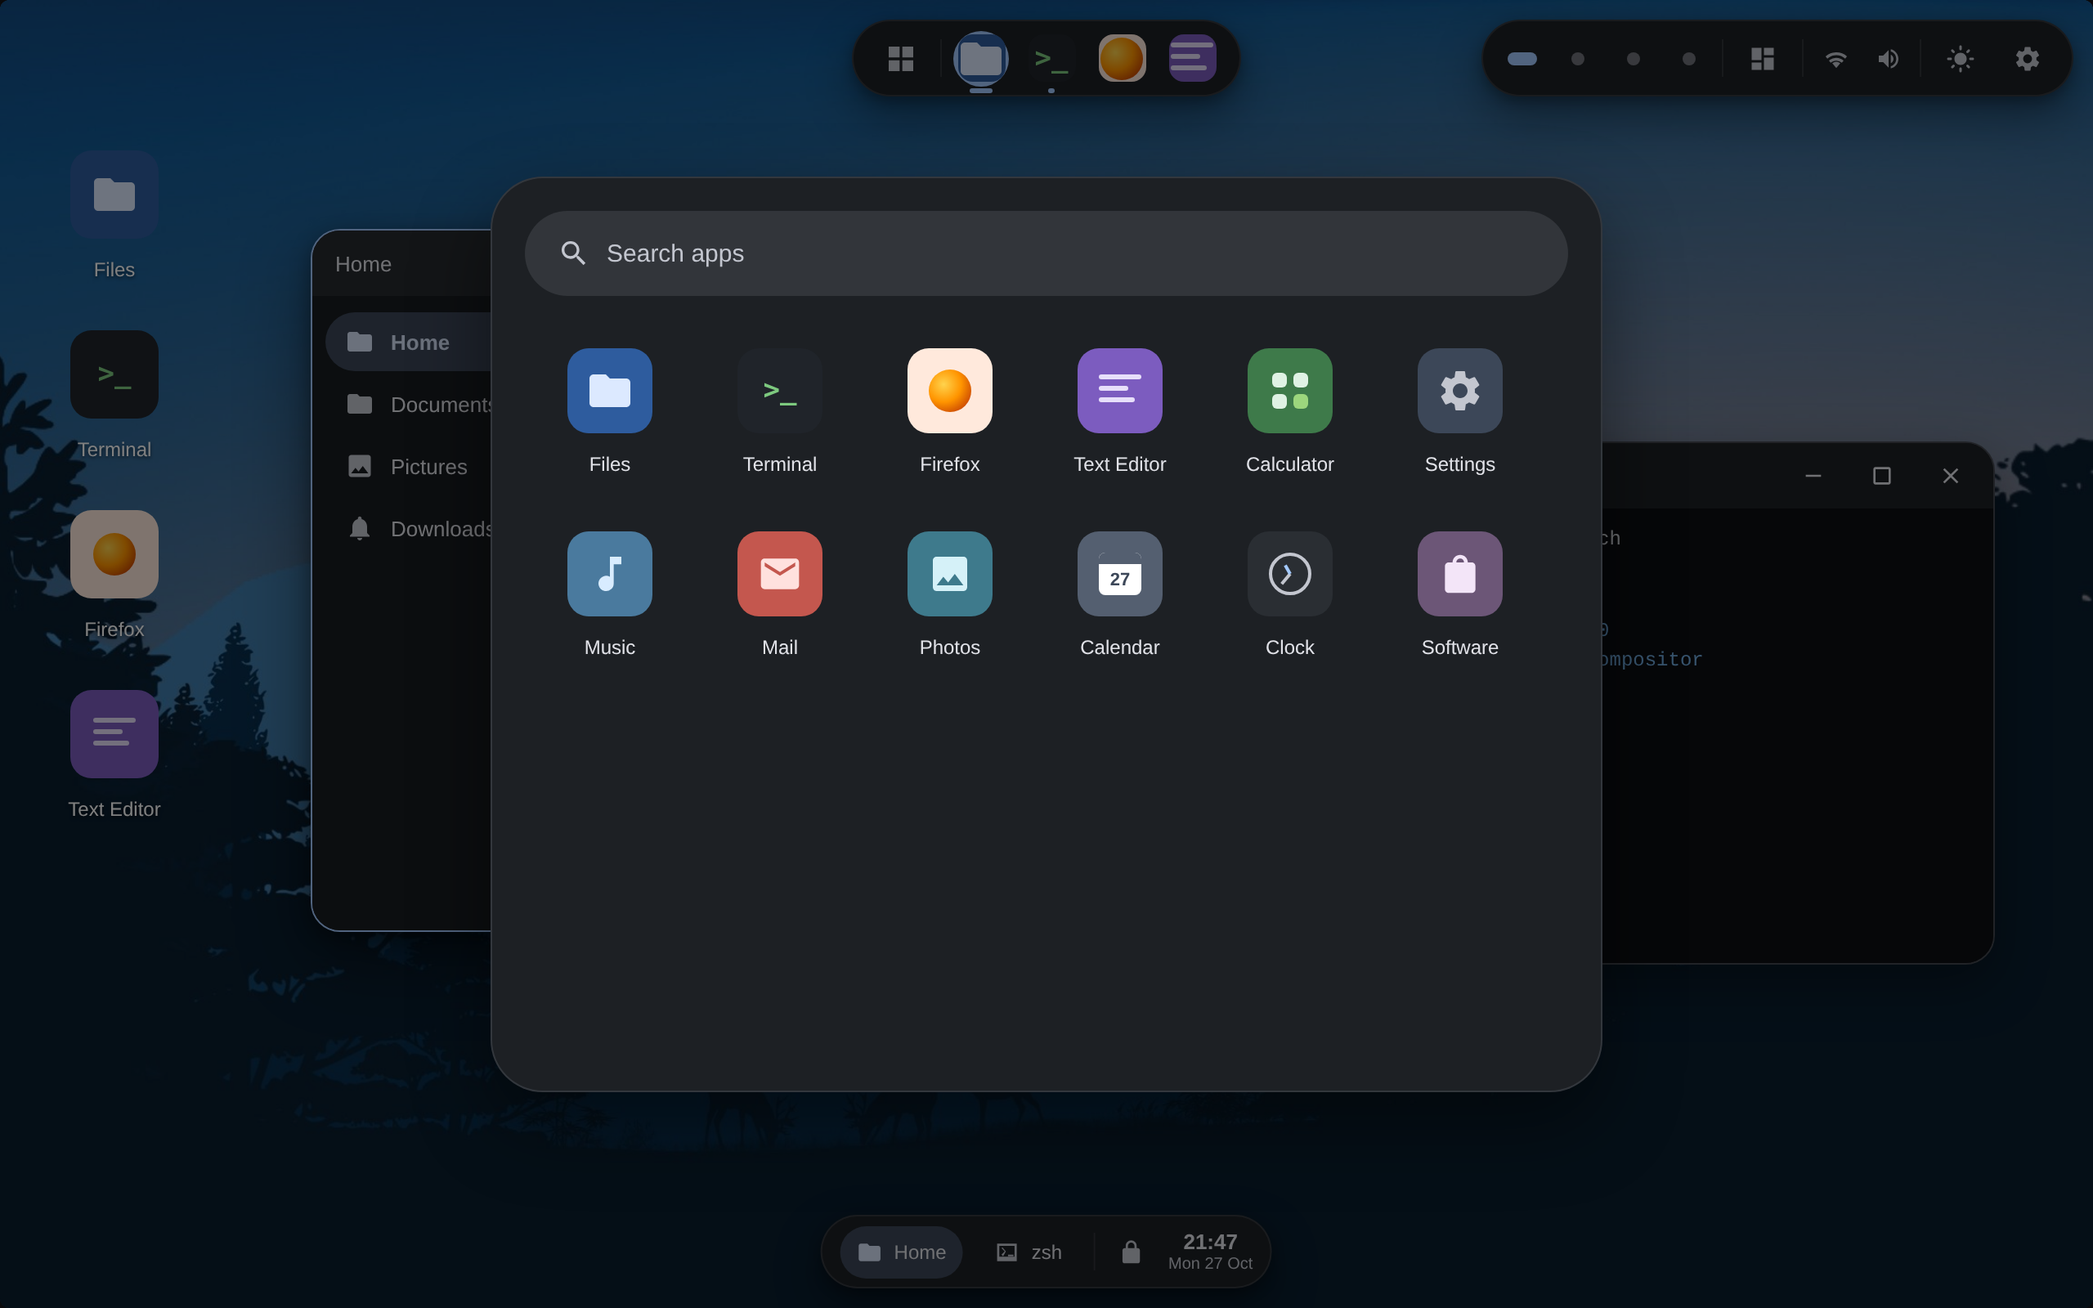
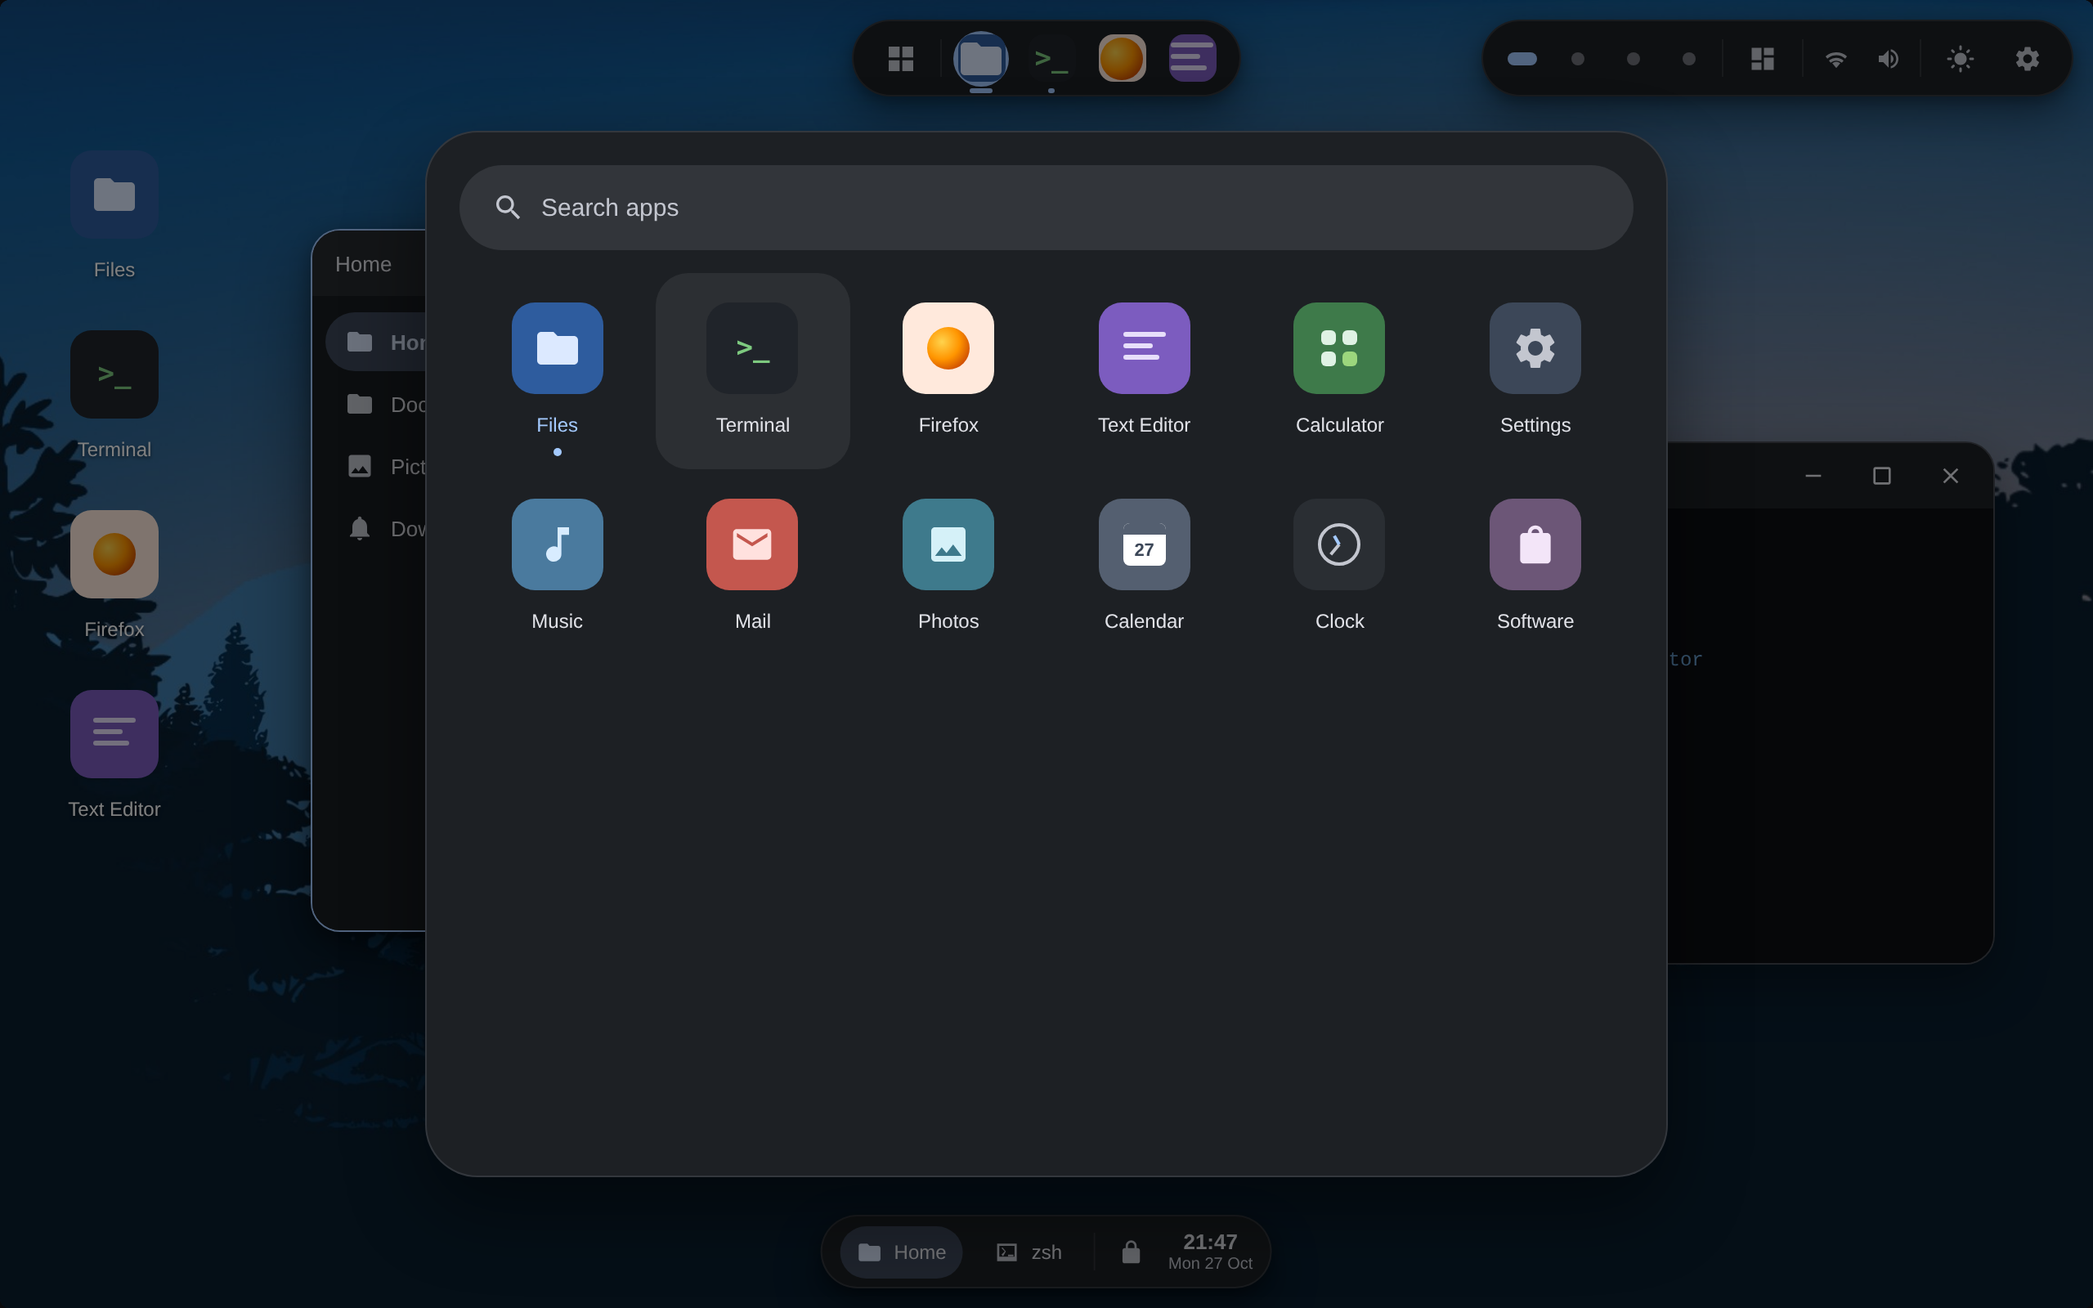
docs

diff --git a/src/main.cpp b/src/main.cpp
@@ -13,7 +13,7 @@ int main(int argc, char *argv[])
     QGuiApplication app(argc, argv);
     QGuiApplication::setApplicationName(QStringLiteral("Loali"));
     QGuiApplication::setOrganizationName(QStringLiteral("Loali"));
-    QGuiApplication::setApplicationVersion(QStringLiteral("0.4.0"));
+    QGuiApplication::setApplicationVersion(QStringLiteral("0.5.0"));
     QQuickStyle::setStyle(QStringLiteral("Basic"));
 
     QCommandLineParser parser;

diff --git a/README.md b/README.md
@@ -41,7 +41,7 @@
 - **Bottom taskbar** — two styles: a **streamlined floating pill** that stays out of the corners and widens only when tasks overflow, or a classic full-width bar; window buttons, a lock shortcut and a live clock.
 - **Panel size control** — a single slider in Settings → Panels scales the dock, taskbar and status pill together (70–130 %), and maximized windows keep their work area in sync automatically.
 - **Desktop icons** — a grid of installed applications directly on the wallpaper, with selection and double-click launch.
-- **App launcher** — a searchable full-screen grid of installed applications.
+- **App launcher** — a searchable tile grid that adapts to the window width, marks running apps with a tinted label and an indicator dot, and re-focuses a running app instead of launching a second copy.
 - **Virtual workspaces** — 2–6 independent desktops with an animated switcher in the status pill, `Super+1…6` to switch and `Super+Shift+1…6` to send windows across.
 - **Window tiling** — snap windows to halves and quarters with `Super`-arrows or by dragging them to screen edges, with a live M3 snap preview and animated transitions; drag a tiled window to restore it.
 - **System tray** — a full StatusNotifierWatcher implementation over D-Bus: tray items register, expose icons (theme names or ARGB pixmaps) and react to activate / secondary-activate clicks; icons can be **reordered by dragging** and the layout persists across sessions.
@@ -49,8 +49,9 @@
 - **Workspace overview (expo)** — `Super+W` zooms out into an expo of every workspace with **live window previews**: windows keep rendering inside scaled workspace cells, click a cell to jump there, drag a window between cells to move it across workspaces, or just click a window to open its desktop.
 - **Dark / light theme** — a one-tap toggle (status pill or Settings → Appearance) switches the entire M3 token set between the dark and light Material schemes, Obsidian-style; the dynamic Material You palette is regenerated for the chosen mode and persisted.
 - **Notifications daemon** — a real `org.freedesktop.Notifications` server on the session bus: summary, body, app icons and image hints render as M3 cards stacked in the corner, actions are forwarded back to the sender, critical alerts stay on screen, and Do Not Disturb lives in Settings.
-- **Dynamic Material You color** — the seed color is extracted from the wallpaper (Wu quantizer + scoring) and a full Material 3 tonal scheme is generated with Google’s `material-color-utilities` (HCT / CAM16); dock, taskbar, windows, launcher and settings all recolor live, with manual accent and wallpaper-suggested swatches as fallback.
-- **Settings application** — a built-in M3 settings app with wallpaper (bundled art, custom image path, dim overlay), accent color, panels (taskbar style, dock look, panel size), workspace count, a shortcut cheat-sheet and an about page; everything persists via QSettings.
+- **Dynamic Material You color** — the seed color is extracted from the wallpaper (Wu quantizer + scoring) and a full Material 3 tonal scheme is generated with Google’s `material-color-utilities` (HCT / CAM16); dock, taskbar, windows, launcher and settings all recolor live.
+- **Material You fine-tuning** — seven wallpaper styles straight from Android 12+ (**Tonal spot, Vibrant, Expressive, Content, Fruit salad, Rainbow, Monochrome**), a contrast level from muted (−1) to high (+1), and a manual accent that re-tints the entire scheme — not just a highlight color.
+- **Settings application** — a built-in M3 settings app with wallpaper (bundled art, custom image path, dim overlay), appearance (dark/light, dynamic color, wallpaper style, contrast, accent), panels (taskbar style, dock look, panel size), workspace count, a shortcut cheat-sheet and an about page; everything persists via QSettings.
 - **Wallpapers** — a bundled default artwork plus procedural M3E gradient styles, applied to the desktop and the lock screen.
 - **Window management** — server-side title bars, drag, 8-way resize, maximize, fullscreen, minimize, click-to-focus.
 - **Lock screen** — large M3 display-style clock over a dimmed wallpaper.
@@ -176,6 +177,8 @@ The shell follows the reference Qt compositor pattern: `XdgShell.onToplevelCreat
 - [x] Dark / light theme toggle
 - [x] Workspace expo with window previews
 - [x] Floating taskbar and Dynamic Island dock, panel size settings
+- [x] Material You fine-tuning: wallpaper styles and contrast
+- [x] Launcher tile grid with running indicators
 
 ## Contributing
 
@@ -197,7 +200,7 @@ Loali is licensed under the [GNU GPL-3.0](LICENSE). Material Symbols path data u
   <a href="docs/screenshots/settings.png"><img src="docs/screenshots/settings.png" alt="Настройки — панели" width="49%"/></a>
 </div>
 
-Возможности: нативный Wayland-композитор (XdgShell, серверные декорации), верхний док с двумя видами — **Dynamic Island** (пилюля дышит при наведении и запуске приложений: расширяется, показывает название запущенного приложения и складывается обратно) и плоская полоса во всю ширину, статус-пилюля с переключателем рабочих столов, кнопкой экспо, системным треем и переключателем темы, нижний таскбар с двумя стилями — **обтекаемая плавающая пилюля**, которая не тянется по углам и расширяется только при переполнении задачами, либо классическая полоса, сетка иконок на рабочем столе, лаунчер с поиском, **настройка размера панелей** — один слайдер в Настройки → Панели масштабирует док, таскбар и статус-пилюлю (70–130 %), область разворачивания окон синхронизируется автоматически, **виртуальные рабочие столы** (2–6, переключение `Super+1…6`, перенос окон `Super+Shift+1…6`), **экспо рабочих столов** (`Super+W`) с живыми превью окон: клик по ячейке переключает стол, перетаскивание окна между ячейками переносит его между столами, **тайлинг окон** — половины и углы по `Super`-стрелкам и перетаскиванием к краям экрана с живым превью, **меню трея по DBusMenu** — правый клик по иконке трея показывает настоящее меню `com.canonical.dbusmenu` (иконки, разделители, галочки, радиокнопки, подменю), **drag-упорядочивание иконок трея** — порядок сохраняется между сессиями, **светлая и тёмная темы** — переключение всего набора токенов M3 одним тапом, **демон уведомлений** `org.freedesktop.Notifications` — карточки M3 с действиями, критические алерты и режим «Не беспокоить», **динамический цвет Material You** — палитра генерируется из обоев (квантизатор Wu + HCT/CAM16 из material-color-utilities), интерфейс перекрашивается на лету, есть ручной акцент и подсказки обоев, **приложение «Настройки»** — обои (встроенные, свой файл, затемнение), тёмная тема, динамический и ручной акцент, панели (стиль таскбара, вид дока, размер), число рабочих столов, уведомления, шпаргалка по клавишам, перетаскивание, изменение размера с 8 сторон, разворачивание, сворачивание, экран блокировки с большими часами, автоматический поиск приложений по `.desktop`-файлам.
+Возможности: нативный Wayland-композитор (XdgShell, серверные декорации), верхний док с двумя видами — **Dynamic Island** (пилюля дышит при наведении и запуске приложений: расширяется, показывает название запущенного приложения и складывается обратно) и плоская полоса во всю ширину, статус-пилюля с переключателем рабочих столов, кнопкой экспо, системным треем и переключателем темы, нижний таскбар с двумя стилями — **обтекаемая плавающая пилюля**, которая не тянется по углам и расширяется только при переполнении задачами, либо классическая полоса, сетка иконок на рабочем столе, **лаунчер-плитки** — адаптивная сетка под ширину окна с индикаторами запущенных приложений и фокусом на уже запущенном приложении вместо повторного запуска, **настройка размера панелей** — один слайдер в Настройки → Панели масштабирует док, таскбар и статус-пилюлю (70–130 %), область разворачивания окон синхронизируется автоматически, **виртуальные рабочие столы** (2–6, переключение `Super+1…6`, перенос окон `Super+Shift+1…6`), **экспо рабочих столов** (`Super+W`) с живыми превью окон: клик по ячейке переключает стол, перетаскивание окна между ячейками переносит его между столами, **тайлинг окон** — половины и углы по `Super`-стрелкам и перетаскиванием к краям экрана с живым превью, **меню трея по DBusMenu** — правый клик по иконке трея показывает настоящее меню `com.canonical.dbusmenu` (иконки, разделители, галочки, радиокнопки, подменю), **drag-упорядочивание иконок трея** — порядок сохраняется между сессиями, **светлая и тёмная темы** — переключение всего набора токенов M3 одним тапом, **демон уведомлений** `org.freedesktop.Notifications` — карточки M3 с действиями, критические алерты и режим «Не беспокоить», **динамический цвет Material You** — палитра генерируется из обоев (квантизатор Wu + HCT/CAM16 из material-color-utilities), интерфейс перекрашивается на лету, **тонкая доводка Material You** — семь стилей обоев как в Android 12+ (**Tonal spot, Vibrant, Expressive, Content, Fruit salad, Rainbow, Monochrome**), уровень контраста от приглушенного (−1) до высокого (+1) и ручной акцент, который перекрашивает всю схему целиком, **приложение «Настройки»** — обои (встроенные, свой файл, затемнение), тёмная тема, динамический и ручной акцент, стиль обоев и контраст, панели (стиль таскбара, вид дока, размер), число рабочих столов, уведомления, шпаргалка по клавишам, перетаскивание, изменение размера с 8 сторон, разворачивание, сворачивание, экран блокировки с большими часами, автоматический поиск приложений по `.desktop`-файлам.
 
 Сборка и запуск:
 
